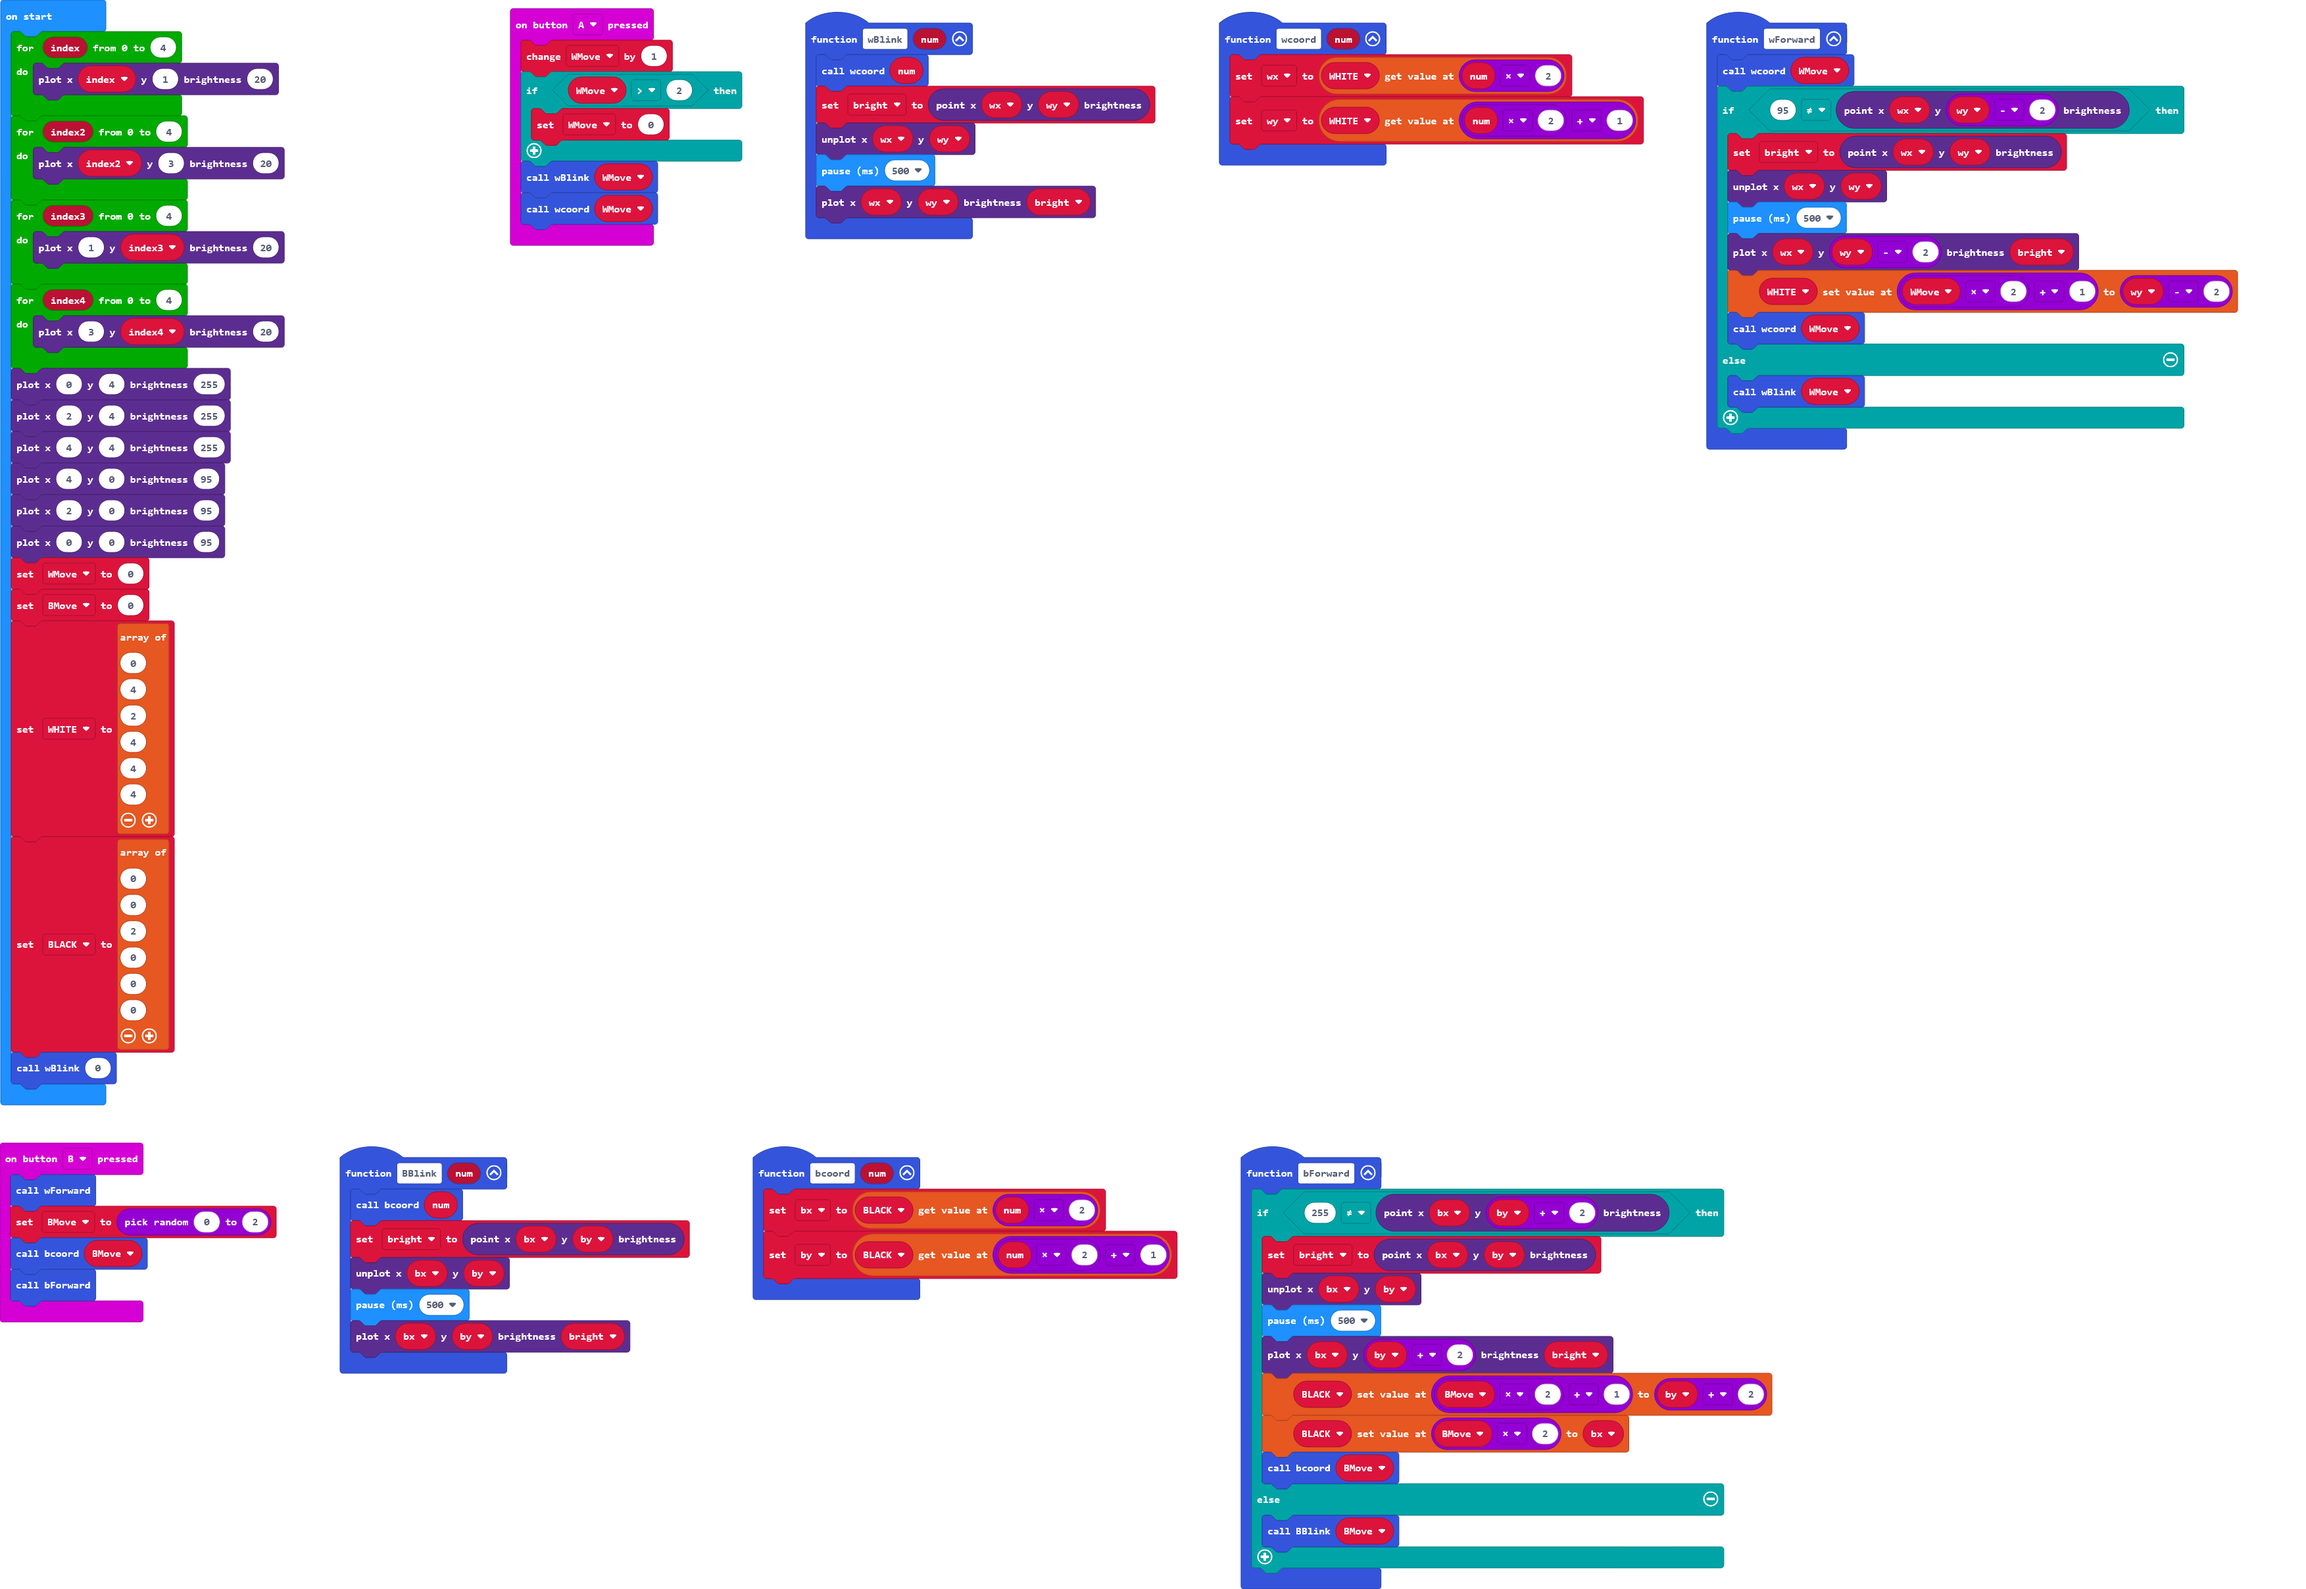
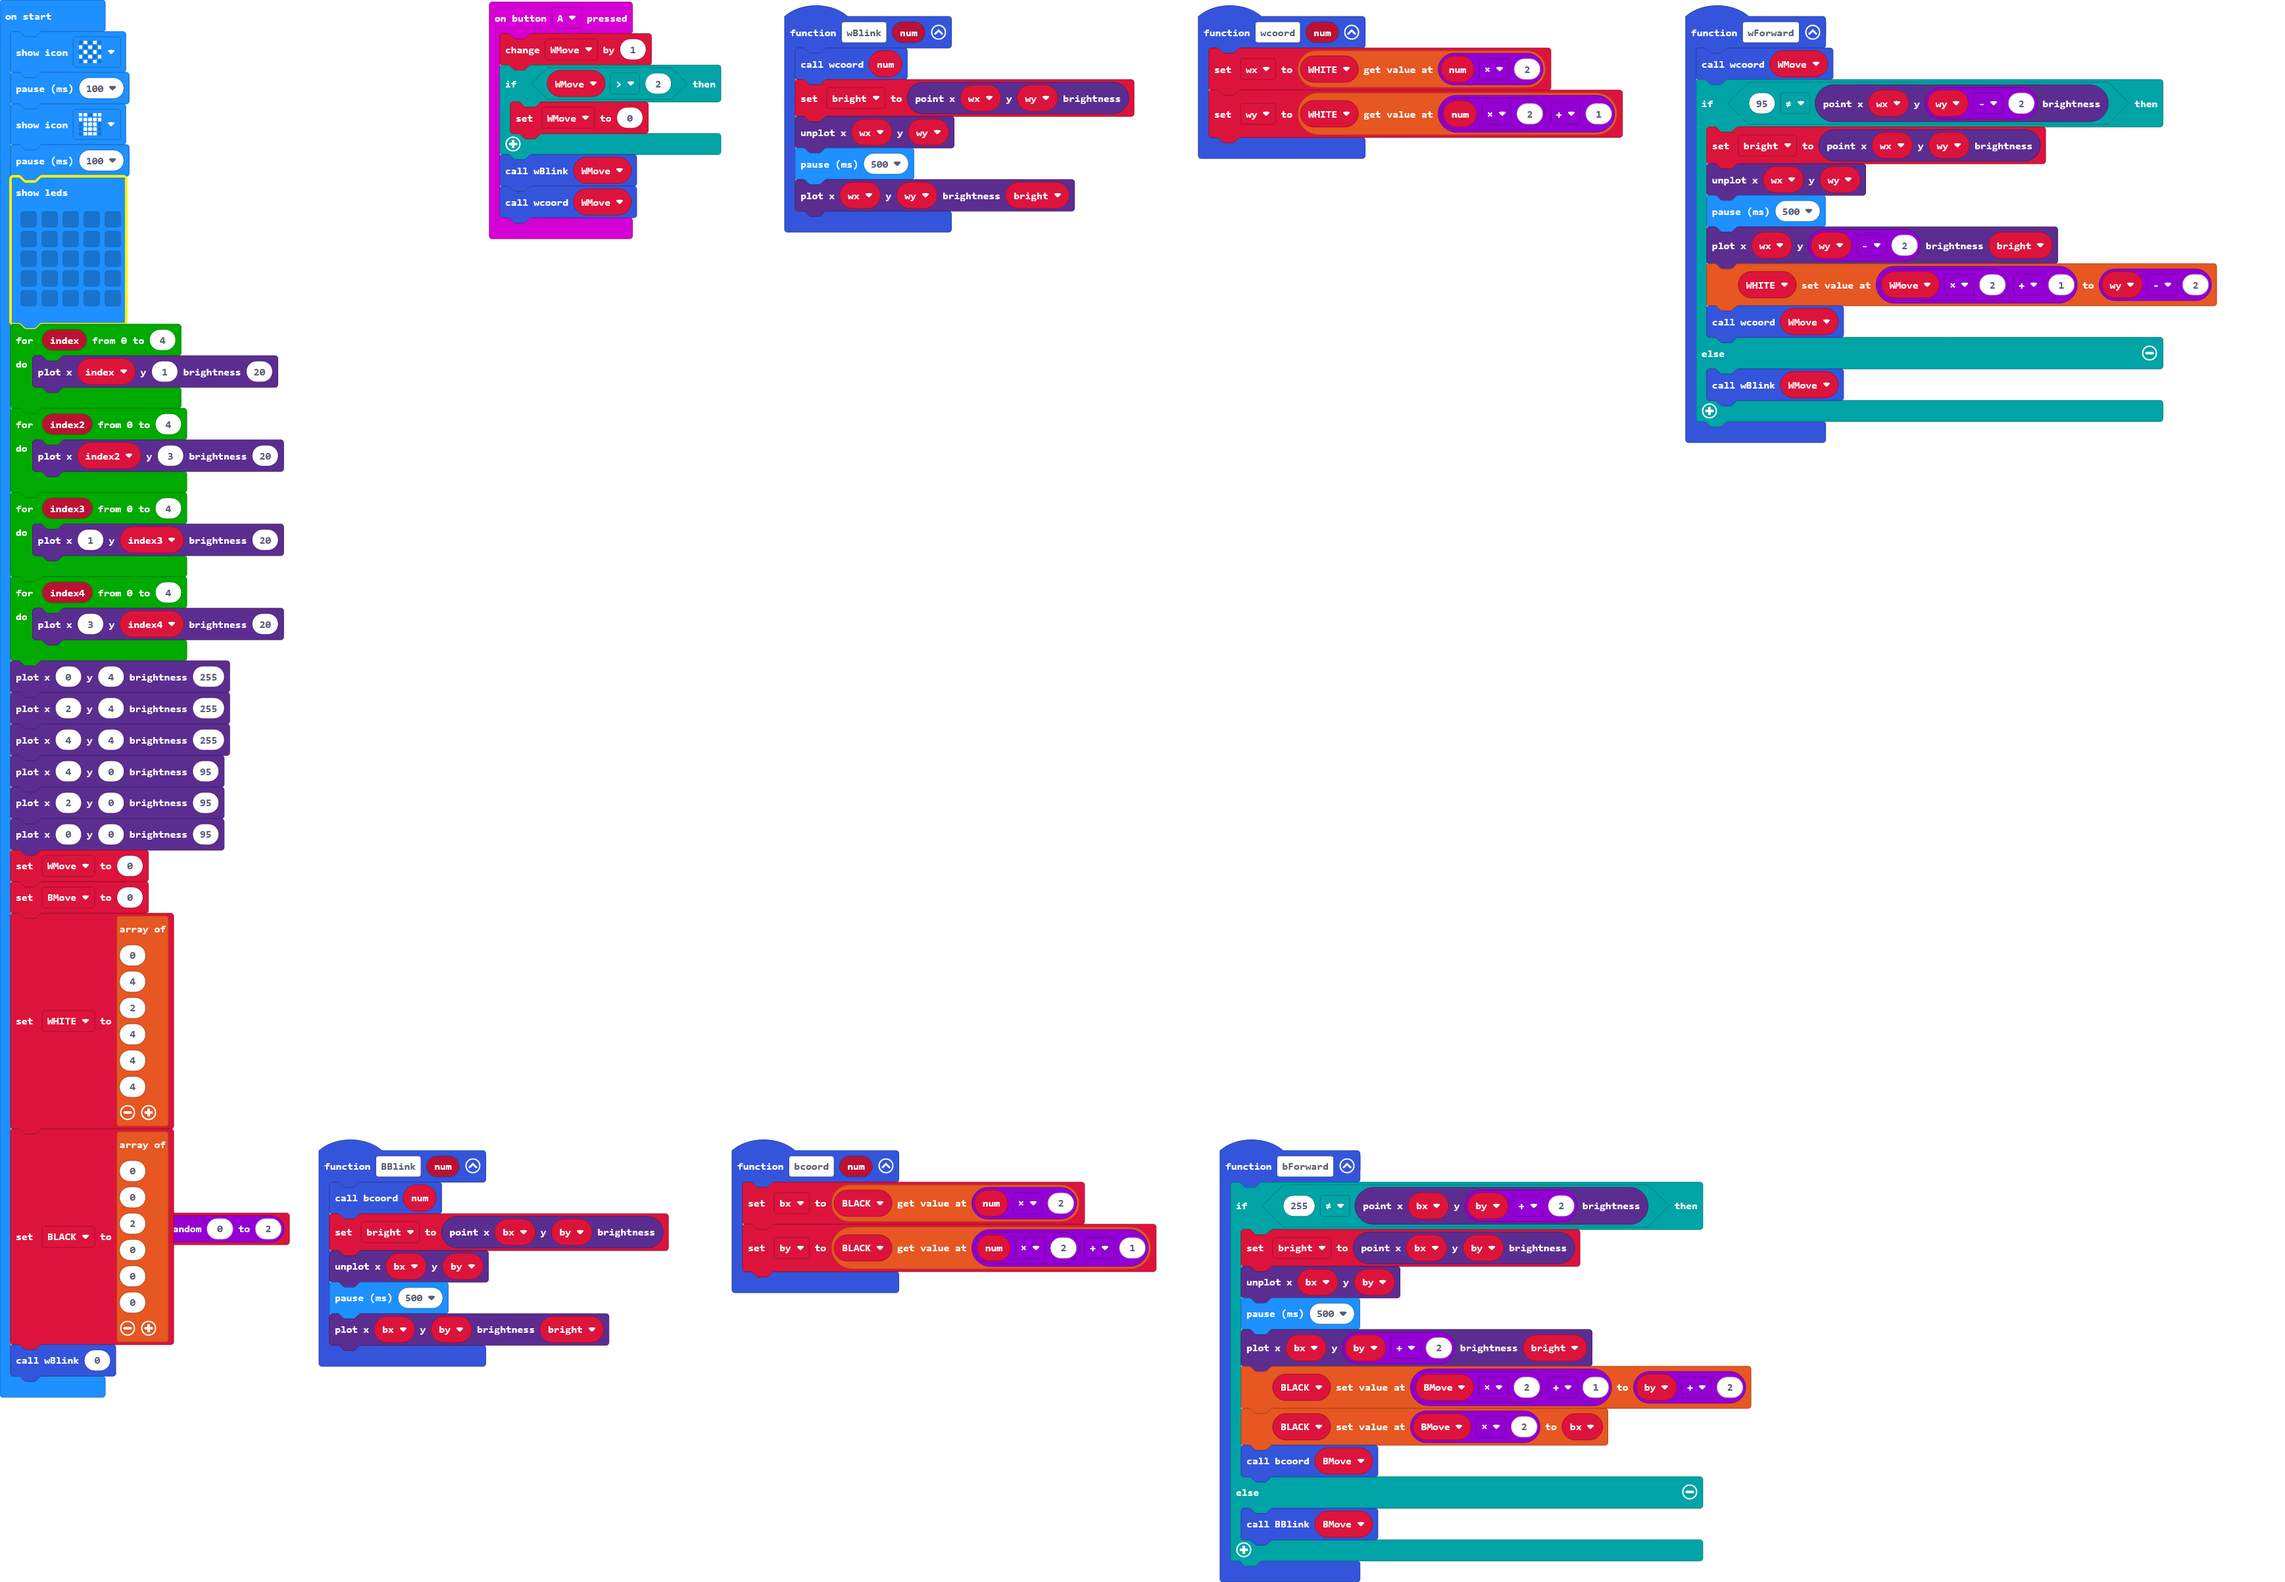
Update main.blocks, main.ts

Changed region(s): [[0.0, 0.0, 0.7772, 1.0], [0.1865, 0.0, 0.9637, 0.2805]]

diff --git a/main.ts b/main.ts
@@ -69,6 +69,17 @@ let BLACK: number[] = []
 let WHITE: number[] = []
 let BMove = 0
 let WMove = 0
+basic.showIcon(IconNames.Chessboard)
+basic.pause(100)
+basic.showIcon(IconNames.TShirt)
+basic.pause(100)
+basic.showLeds(`
+    . . . . .
+    . . . . .
+    . . . . .
+    . . . . .
+    . . . . .
+    `)
 for (let index = 0; index <= 4; index++) {
     led.plotBrightness(index, 1, 20)
 }
